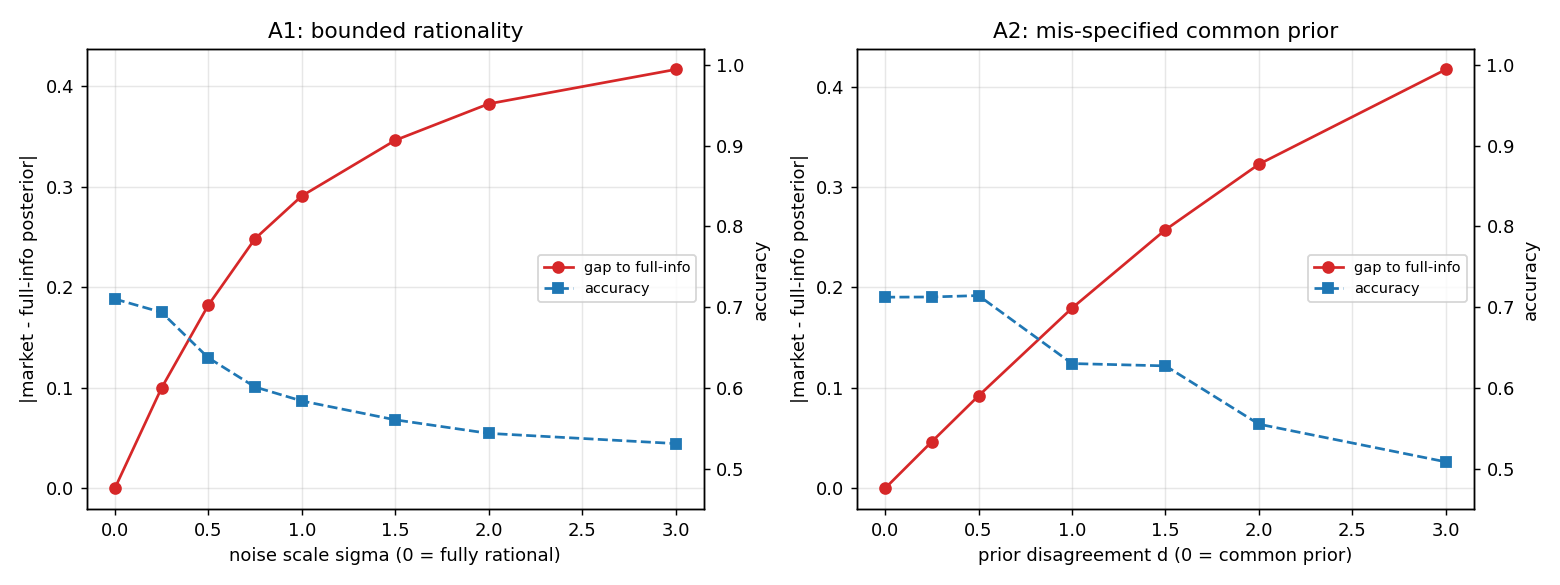
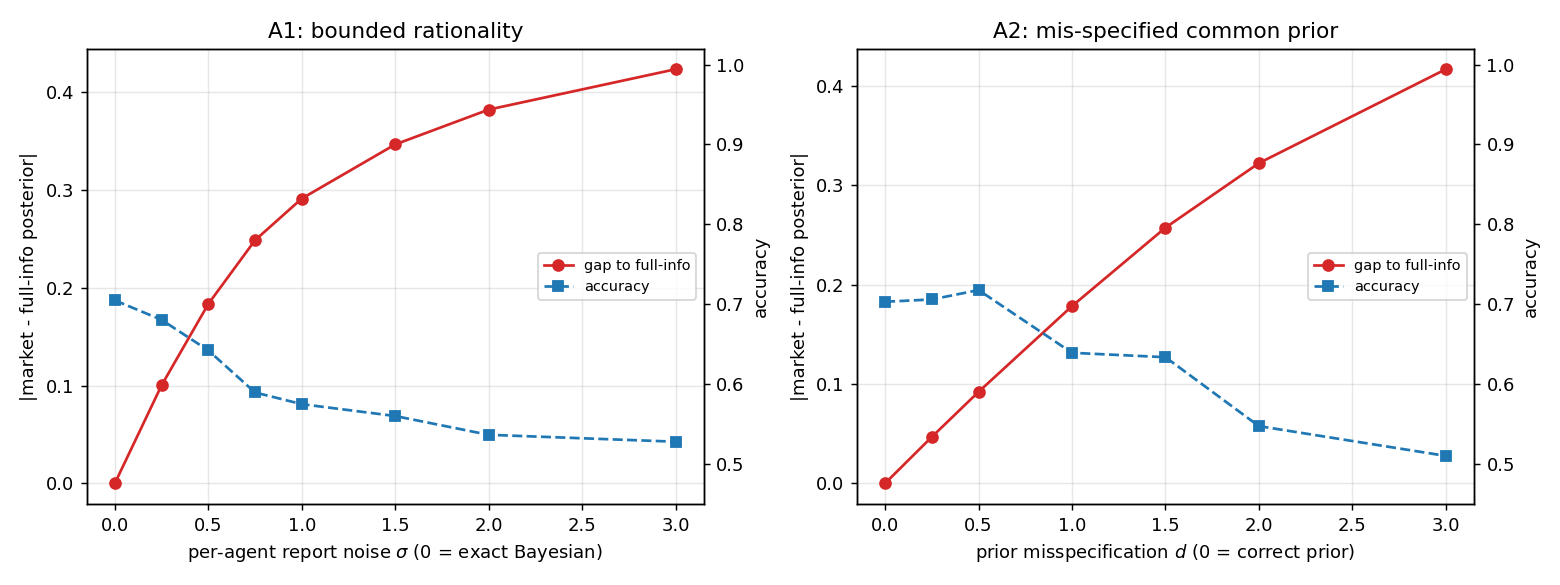
paper: address review of the A1/A2 stress-test section
Precise framing (Bayesian-rationality component of A1; shared-but-misspecified common prior for A2; 'in this cumulative reporting model'); drop the unsupported 'behaves like the verifiable mechanism' claim (this measures aggregation, not payouts); fix Figure 3 caption (gap monotonic, accuracy non-monotonic) and report N=8, q=0.6, prior 0.5, 8000 runs; rephrase the Conclusion A4 sentence (correlated signals would violate A4 and remain untested); refresh figure and numbers from the re-run.

diff --git a/paper/Sections/Experiments.tex b/paper/Sections/Experiments.tex
@@ -48,28 +48,35 @@ equilibria''; over-reporting, conversely, is costly ($0.506$) without improving 
 \subsection{Breaking one assumption at a time: rationality and the common prior}
 
 RQ1 showed truthfulness \emph{emerging} as A5 is satisfied; here we ask the converse for two
-other assumptions, deliberately breaking A1 and A2 and tracking how far the terminal
+other assumptions, breaking the \emph{Bayesian-rationality component} of A1 and the
+\emph{common prior} of A2 (one at a time, all else fixed) and tracking how far the terminal
 reference drifts from the ideal full-information posterior (Figure~\ref{fig:assumptions}).
-Both knobs recover the assumption at their baseline: at $\sigma=0$ (A1) and $d=0$ (A2) the
-gap is exactly $0$, the reference equals the ideal aggregate, and resolution behaves like the
-verifiable mechanism. The two then break differently. Under \textbf{A1}, because reports are
-cumulative, each agent's error is not averaged away but random-walks into the terminal
-reference, so the gap climbs steadily (to $0.42$ at $\sigma=3$) and accuracy falls from
-$0.71$ to $0.53$. Under \textbf{A2}, a wrong common prior injects a constant log-odds bias
-the additive mechanism never corrects; the gap grows roughly linearly (to $0.42$ at $d=3$)
-and accuracy collapses toward chance ($0.51$) once the prior overrides the weak signals.
-Neither violation is catastrophic near the baseline, so the mechanism degrades
-\emph{gracefully}, but neither self-corrects, which is the standing cost of assuming them.
+This is an aggregation measure (gap and accuracy), not a statement about payouts, which is
+RQ2's question. Both knobs recover the assumption at their baseline: at $\sigma=0$ (A1) and
+$d=0$ (A2) the gap is exactly $0$ and the reference equals the ideal aggregate. The two then
+break differently. Under \textbf{A1} (each agent adds zero-mean log-odds noise $\sigma$ to its
+truthful report), in this cumulative reporting model an agent's error is not averaged away but
+random-walks into the terminal reference, so the gap climbs steadily (to $0.42$ at $\sigma=3$)
+and accuracy falls from $0.70$ to $0.53$. Under \textbf{A2}, the market shares a single common
+prior that is simply wrong (a logit gap $d$ from the data-generating prior), injecting a
+constant log-odds bias the additive mechanism never corrects; here the \emph{gap} grows
+monotonically (to $0.42$ at $d=3$) but \emph{accuracy} is non-monotonic, flat near the baseline
+(even edging up to $0.72$ around $d=0.5$) before collapsing toward chance ($0.51$) once the
+prior overrides the weak signals. Neither violation is catastrophic near the baseline, so the
+mechanism degrades \emph{gracefully}, but neither self-corrects, which is the standing cost of
+assuming them.
 
 \begin{figure}[ht]
     \centering
     \includegraphics[width=0.9\linewidth]{Images/exp_assumptions.png}
     \caption[Single-assumption stress tests (A1, A2)]{\textbf{Breaking A1 and A2.} Gap
     between the terminal reference and the ideal full-information posterior (red, left axis)
-    and market accuracy (blue, right axis) as each assumption is violated, all else fixed.
-    Left: bounded rationality (per-agent log-odds noise $\sigma$). Right: a mis-specified
-    common prior (logit-disagreement $d$). Both are $0$-gap at the baseline ($\sigma=0$,
-    $d=0$) and degrade monotonically.}
+    and market accuracy (blue, right axis) as each assumption is violated, all else fixed
+    ($N=8$ agents, signal quality $q=0.6$, prior $0.5$, $8000$ runs per point). Left: bounded
+    rationality (per-agent log-odds noise $\sigma$). Right: a shared but mis-specified common
+    prior (logit gap $d$ to the data-generating prior). The gap is $0$ at the baseline
+    ($\sigma=0$, $d=0$) and grows monotonically; accuracy is flat near the baseline and then
+    falls (for A2 it is non-monotonic).}
     \label{fig:assumptions}
 \end{figure}
 

diff --git a/paper/Sections/Methods.tex b/paper/Sections/Methods.tex
@@ -52,14 +52,18 @@ with herders, noisy reporters, an uninformative third, and over-reporters, measu
 accuracy, gap to full information, and the designer's total cost.
 
 \paragraph{Breaking one assumption at a time (A1, A2).}
-We complement RQ1 (which varies A5) by deliberately violating A1 and A2 in the same clean
+We complement RQ1 (which varies A5) by breaking two further assumptions in the same clean
 world and measuring how far the terminal reference drifts from the ideal full-information
-posterior. For \textbf{A1} (rationality), every agent is a boundedly rational Bayesian that
-adds zero-mean Gaussian noise of scale $\sigma$ (in log-odds) to its truthful report, so
-$\sigma=0$ is the rational baseline. For \textbf{A2} (common prior), the world draws $Y$
-under the true prior but the market anchors on a mis-specified prior a logit-disagreement
-$d$ away, so $d=0$ is the correct-prior baseline. Each knob recovers the assumption at its
-baseline, where the gap is $0$ by construction, and grows only as the assumption breaks.
+posterior (an aggregation measure, not payout agreement). For \textbf{A1} we perturb its
+\emph{Bayesian-rationality component} (not risk neutrality): every agent adds zero-mean
+Gaussian noise of scale $\sigma$ (in log-odds) to its truthful report, so $\sigma=0$ is the
+exact-Bayesian baseline. For \textbf{A2}, the world draws $Y$ under the true prior but the
+market shares a single \emph{mis-specified} common prior a logit gap $d$ from it, so $d=0$ is
+the correct-prior baseline; the agents still agree with one another, they are just
+collectively wrong. Both sweeps use $N=8$ agents of signal quality $q=0.6$, prior $\pi=0.5$,
+and $8000$ Monte Carlo runs per point, with independent RNG streams (spawned from one seed)
+so the two are reproducible and decoupled. Each knob recovers the assumption at its baseline,
+where the gap is $0$ by construction.
 
 \paragraph{RQ2: Polymarket counterfactual.}
 We download roughly $90$ \emph{resolved} Polymarket markets~\parencite{polymarket} with

diff --git a/paper/Sections/Conclusion.tex b/paper/Sections/Conclusion.tex
@@ -7,7 +7,8 @@ We gave empirical content to the self-resolving prediction market of
 reporting as the reference accumulates informational substitutes ($\gamma^\star\to 1$ by
 $k\approx 64$), operationalising Theorems~1--3; we also reproduced the analytic $k_{\min}$
 bound, confirmed exact aggregation under truthful play, and showed the mechanism degrades
-gracefully when rationality (A1) or the common prior (A2) is deliberately broken. On roughly
+gracefully when agents are boundedly rational (A1) or the common prior is mis-specified (A2).
+On roughly
 $90$ resolved
 Polymarket markets (RQ2) the self-resolving payouts track the verifiable payouts almost
 perfectly at a late reference and degrade gracefully as it moves earlier, isolating outcome
@@ -27,8 +28,8 @@ RQ2 measures outputs, not incentives (we replay fixed paths and never let agents
 and real markets violate essentially all of A1--A5, so the agreement is evidence of
 \emph{robustness}, not of the assumptions holding. The late reference also conflates
 ``well-informed'' with ``outcome-contaminated''; the synthetic study breaks A1 and A2 but
-holds A3 and A4 fixed (the correlated-signal case, A4, being the most important untested
-gap); and everything is restricted to binary outcomes. Two directions follow: can the
+holds A3 and A4 fixed, so correlated signals (which would violate A4) remain the most
+important untested case; and everything is restricted to binary outcomes. Two directions follow: can the
 CE-MSR be reweighted so the \emph{ranking} of rewards tracks who pushed price toward truth
 \emph{without} observing the outcome, and does the reference-as-proxy idea extend to
 non-binary outcomes and to mild violations of conditional independence? The gap between the